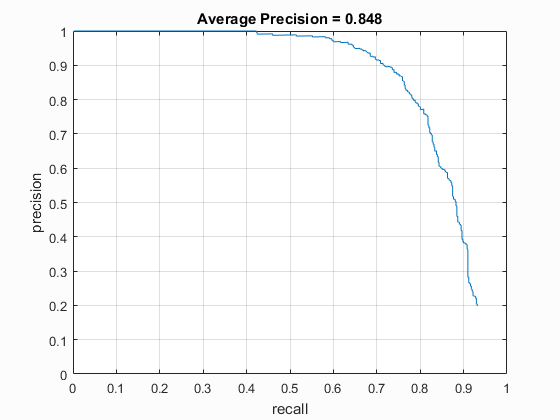
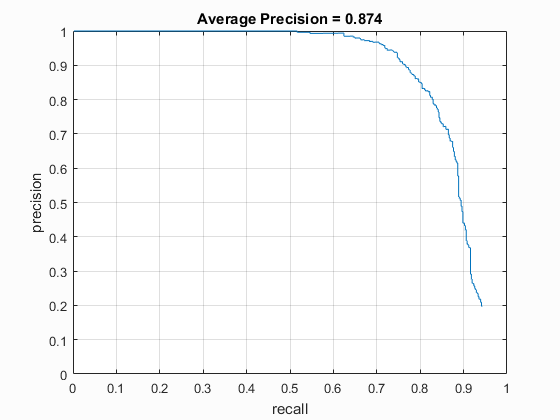
pointlessness

Changed region(s): [[0.4554, 0.0619, 0.8804, 0.7429], [0.6375, 0.031, 0.6982, 0.0619]]

diff --git a/A3/code_and_images/detectclass.m b/A3/code_and_images/detectclass.m
@@ -1,0 +1,157 @@
+run('../vlfeat-0.9.20/toolbox/vl_setup')
+imageDir = 'test_images';
+imageList = dir(sprintf('%s/*.jpg',imageDir));
+nImages = length(imageList);
+load('my_svm.mat');
+bboxes = zeros(0,4);
+confidences = zeros(0,1);
+image_names = cell(0,1);
+
+cellSize = 4;
+dim = 36;
+featSize = dim/cellSize;
+scaleFactor = sqrt(0.5);
+% load and show the image
+origIm = im2single(imread('class.jpg'));
+%     imshow(im);
+%     hold on;
+
+currentScale = 1;
+top_bbs = [];
+top_vals = [];
+
+while true
+    currentScale = currentScale * scaleFactor;
+    im = imresize(origIm, currentScale);
+    %         im = rgb2gray(imresize(origIm, currentScale));
+    [rs,cs,~] = size(im);
+    if rs+cellSize < dim || cs+cellSize < dim
+        break;
+    end
+        % generate a grid of features across the entire image. you may want to
+        % try generating features more densely (i.e., not in a grid)
+        
+        feats = vl_hog(im,cellSize);
+
+%         imshow(vl_hog('render', feats));
+%         pause;
+        % concatenate the features into 6x6 bins, and classify them (as if they
+        % represent 36x36-pixel faces)
+        [rows,cols,~] = size(feats);
+        confs = zeros(rows,cols);
+        
+        for r=1:rows-(featSize-1)
+            for c=1:cols-(featSize-1)
+                featHere = feats(r:r+(featSize-1),c:c+(featSize-1),:);
+                aa = featHere(:)'*w + b;
+                featHere2 = featHere (:,end:-1:1,vl_hog('permutation'));
+                bb = featHere2(:)'*w + b;
+                confs(r,c) = min(aa, bb);
+            end
+        end
+        
+        % get the most confident predictions
+        [~,baseInds] = sort(confs(:),'descend');
+        %     inds = inds(1:20); % (use a bigger number for better recall)
+        box_count = 0;
+        inds = [];
+        
+        for n=1:numel(baseInds)
+            [row,col] = ind2sub([size(feats,1) size(feats,2)],baseInds(n));
+            currConf = confs(row,col);
+            bbox = [ (col*cellSize), ...
+                (row*cellSize), ...
+                ((col+featSize-1)*cellSize), ...
+                ((row+featSize-1)*cellSize)]/currentScale;
+            take = true;
+            intersect_inds = [];
+            for j = 1:numel(top_vals)
+                bbox2 = top_bbs(j,:);
+                if checkOverlap(bbox,bbox2,0.5)
+                    if top_vals(j) < currConf
+                        
+                        intersect_inds = [intersect_inds;j];
+                        %                         plot_rectangle = [bbox(1), bbox(2); ...
+                        %                         bbox(1), bbox(4); ...
+                        %                         bbox(3), bbox(4); ...
+                        %                         bbox(3), bbox(2); ...
+                        %                         bbox(1), bbox(2)];
+                        %                         plot(plot_rectangle(:,1), plot_rectangle(:,2), 'g-');
+                        %                       pause;
+                    else
+                        take = false;
+                        break;
+                    end
+                end
+            end
+            if currConf < 1
+                break;
+            end
+            if take
+                
+                for j = 1:size(intersect_inds)
+                    top_vals(intersect_inds(j)) = -1;
+                    top_bbs(intersect_inds(j),:) = [0,0,0,0];
+                end
+                inds = [inds;baseInds(n)];
+                %                 str = struct('val',confs(row,col),'bb',bbox);
+                top_bbs = [top_bbs; bbox];
+                top_vals = [top_vals; confs(row,col)];
+                
+                %                 box_count = box_count+1;
+                
+                %                 plot_rectangle = [bbox(1), bbox(2); ...
+                %                 bbox(1), bbox(4); ...
+                %                 bbox(3), bbox(4); ...
+                %                 bbox(3), bbox(2); ...
+                %                 bbox(1), bbox(2)];
+                %             plot(plot_rectangle(:,1), plot_rectangle(:,2), 'g-');
+                %             pause;
+                
+                
+                %                 if box_count >= 20
+                %                     break;
+                %                 end
+            end
+        end
+end
+[~,top_inds] = sort(top_vals,'descend');
+
+
+hold off;
+imshow(origIm);
+hold on;
+for n=1:numel(top_inds)
+    %         [row,col] = ind2sub([size(feats,1) size(feats,2)],inds(n));
+    
+    %         bbox = [ col*cellSize ...
+    %             row*cellSize ...
+    %             (col+cellSize-1)*cellSize ...
+    %             (row+cellSize-1)*cellSize];
+    %         conf = confs(row,col);
+    ind = top_inds(n);
+    
+    
+    bbox = top_bbs(ind,:);
+    conf = top_vals(ind);
+    if conf == -1
+        continue;
+    end
+%     image_name = {imageList(i).name};
+    clamp = min(1, max(0, conf/2));
+    % plot
+    plot_rectangle = [bbox(1), bbox(2); ...
+        bbox(1), bbox(4); ...
+        bbox(3), bbox(4); ...
+        bbox(3), bbox(2); ...
+        bbox(1), bbox(2)];
+    plot(plot_rectangle(:,1), plot_rectangle(:,2),'Color', [1-clamp 0 clamp]);
+    
+    % save
+    %         conf
+    bboxes = [bboxes; bbox];
+    confidences = [confidences; conf];
+end
+
+%          pause;
+fprintf('got preds for image %d/%d\n', i,nImages);

diff --git a/A3/code_and_images/checkOverlap.m b/A3/code_and_images/checkOverlap.m
@@ -7,14 +7,14 @@ function isOverlapping = checkOverlap( bbox1, bbox2, threshold)
     isOverlapping = false;
     if iw>0 && ih>0       
         % compute overlap as area of intersection / area of union
-        ua=(bbox1(3)-bbox1(1)+1)*(bbox1(4)-bbox1(2)+1)+...
-           (bbox2(3)-bbox2(1)+1)*(bbox2(4)-bbox2(2)+1)-...
-           iw*ih;
-%         w1=bbox1(3)-bbox1(1)+1;
-%         h1=bbox1(4)-bbox1(2)+1;
-%         w2=bbox2(3)-bbox2(1)+1;
-%         h2=bbox2(4)-bbox2(2)+1;
-%         ua = min(w1*h1,w2*h2);
+%         ua=(bbox1(3)-bbox1(1)+1)*(bbox1(4)-bbox1(2)+1)+...
+%            (bbox2(3)-bbox2(1)+1)*(bbox2(4)-bbox2(2)+1)-...
+%            iw*ih;
+        w1=bbox1(3)-bbox1(1)+1;
+        h1=bbox1(4)-bbox1(2)+1;
+        w2=bbox2(3)-bbox2(1)+1;
+        h2=bbox2(4)-bbox2(2)+1;
+        ua = min(w1*h1,w2*h2);
         ov=iw*ih/ua;
         isOverlapping = ov>threshold;
     end
